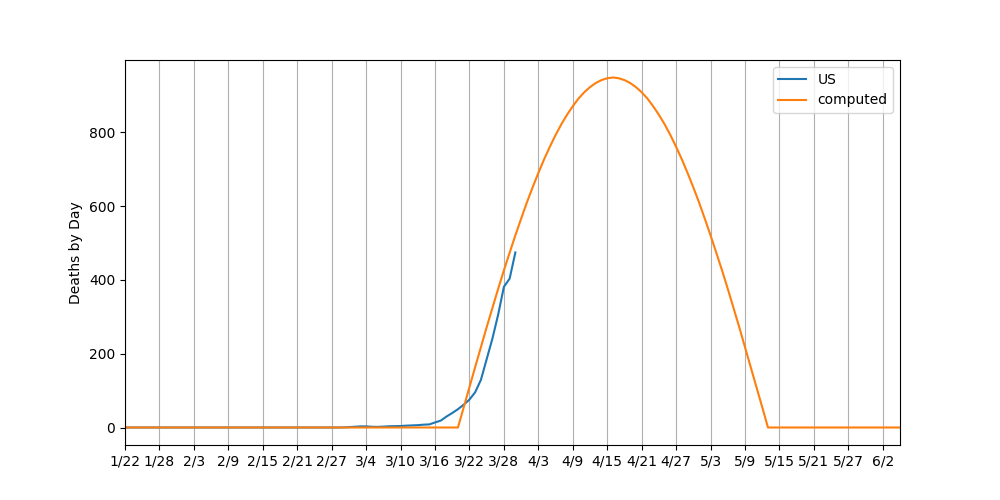
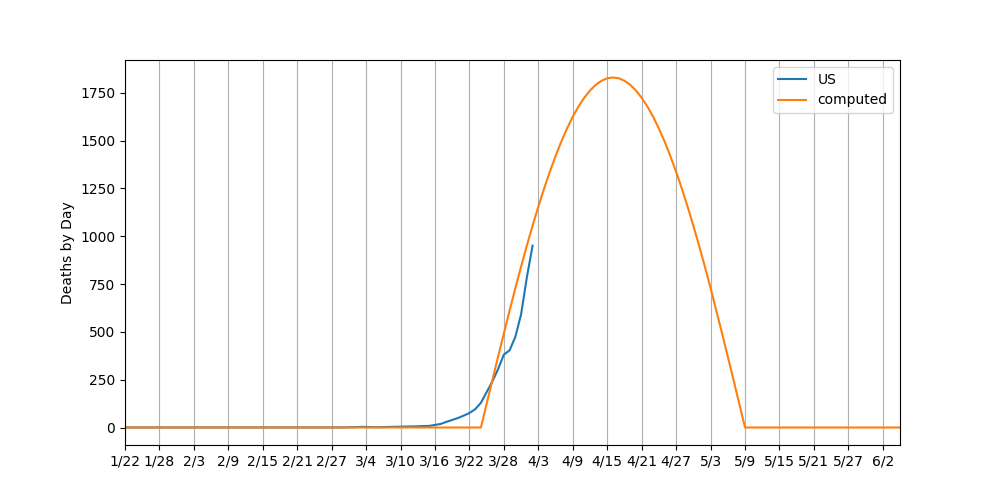
Updated predictions for 4/2

diff --git a/site/index.html b/site/index.html
@@ -26,6 +26,7 @@
 <span class="font-semibold text-xl">Predictions Over Time</span>
 <table class="table-auto">
     <tr><th class="text-center px-3 py-1">Prediction Date</th><th class="text-center px-3 py-1">Italy</th><th class="text-center px-3 py-1">Spain</th><th class="text-center px-3 py-1">US</th></tr>
+    <tr><td class="text-center px-3 py-1">April  2</td><td class=" px-3 py-1">4/24 - 23,164</td><td class=" px-3 py-1">5/1 - 27,982</td><td class=" px-3 py-1">5/10 - 53,560</td></tr>
     <tr><td class="text-center px-3 py-1">March 31</td><td class=" px-3 py-1">4/23 - 22,485</td><td class=" px-3 py-1">5/1 - 28,330</td><td class=" px-3 py-1">5/14 - 32,601</td></tr>
 </table>
 <br/>
@@ -84,29 +85,15 @@
 
 </p>
 <br/>
-<span class="font-semibold text-xl">Italy</span>
+<span class="font-semibold text-xl">Italy, Spain, and the United States</span>
 <p>
-    Italy has received a lot of attention because of the rapid increase in deaths in the country. Italy issued a lock-down of
-    their country on March 8th. Using this date and the deaths reported, my model predicts Italy will be "out-of-the-woods"
-    on April 23rd with 22,485 deaths. As of March 31st they have reported 12,428 deaths. The curve for Italy is shown below:
+    I picked 3 countries -- Italy, Spain, and the United States -- to try and predict when they will be out-of-the-woods, and with how many deaths.
+    I picked these 3 countries because they all had different lock-down dates: March 8th, March 15th, and March 24th respectively.
+    Picking a lock-down date is difficult because they can very from area-to-area in a country. The United States for example
+    is probably the <a class="text-blue-700 hover:text-blue-800 underline" href="https://www.nytimes.com/interactive/2020/us/coronavirus-stay-at-home-order.html">least consistent in issuing lock-downs.</a>
+    Smaller countries actually make it easier. The latest predictions for each country can be found in the table above, and the fitted curves in the graphs below.
     <img class="mx-auto" src="img/italy.png" alt="Italy prediction"/>
-</p>
-<br/>
-<span class="font-semibold text-xl">Spain</span>
-<p>
-    The deaths in Spain have been rising rapidly as well, but the Spanish were slower to issue their lockdown. The Prime Minister
-    issued his country's lockdown on March 15th. My model predicts Spain will be "out-of-the-woods" on May 1st with 28,330 deaths.
-    As of March 31st they have reported 8,464 deaths. The curve for Spain is shown below:
     <img class="mx-auto" src="img/spain.png" alt="Spain prediction"/>
-</p>
-<br/>
-<span class="font-semibold text-xl">United States</span>
-<p>
-    The last country I modeled is my own, the United States. The US issued lock-down orders at
-    <a class="text-blue-700 hover:text-blue-800 underline" href="https://www.nytimes.com/interactive/2020/us/coronavirus-stay-at-home-order.html">various times</a>
-    on a state-by-state basis. I picked March 24th as it <i>seemed</i> to be around when most of the country issued the order.
-    My model predicts the US will be "out-of-the-woods" on May 14th with a total of 32,601 deaths. As of March 31st the US
-    has reported 3,073 deaths. The curve for the US is shown below:
     <img class="mx-auto" src="img/us.png" alt="US prediction"/>
 </p>
 </div>

diff --git a/prediction.py b/prediction.py
@@ -78,7 +78,7 @@ countries = [
     # "Korea, South",
      # "Netherlands",
      # "Portugal",
-    "Spain",
+    # "Spain",
      # "Sweden",
      # "Switzerland",
      # "Turkey",
@@ -87,7 +87,7 @@ countries = [
 
 global_deaths_df = pd.read_csv('data/global_deaths.csv', header=0)
 
-# us_df = compute_us()
+us_df = compute_us()
 
 data = defaultdict(lambda: dict())
 
@@ -100,8 +100,8 @@ for date in global_deaths_df.columns[4:]:
 
         data[country][date_dt] = df[date].sum()
 
-    # if date_dt in us_df.index:
-    #     data['US'][date_dt] = us_df.loc[date_dt]['deaths']
+    if date_dt in us_df.index:
+        data['US'][date_dt] = us_df.loc[date_dt]['deaths']
 
 df = pd.DataFrame(data)
 df = df.sort_index()
@@ -111,15 +111,15 @@ print(df)
 df_diff = df.copy()
 
 # convert from raw counts to percent change with a 3-day moving average
-for country in list(countries): # + ['US']:
+for country in list(countries) + ['US']:
     df_diff[country] = df[country].diff().rolling(window=3).mean()
 
 df_diff = df_diff.fillna(value=0)
 print(df_diff)
 
 # fit the sin curve
-lockdown_date = datetime.date(year=2020, month=3, day=15)
-clear_date = fit_sin(df_diff, countries[0], lockdown_date)
+lockdown_date = datetime.date(year=2020, month=3, day=24)
+clear_date = fit_sin(df_diff, 'US', lockdown_date)
 
 print("Clear by: {} with {} deaths".format(clear_date, df_diff['computed'].sum()))
 
@@ -134,6 +134,6 @@ plt.ylabel('Deaths by Day')
 plt.grid(which='both', axis='x')
 
 # plt.show()
-plt.savefig('site/img/spain.png')
+plt.savefig('site/img/us.png')
 
 print()
